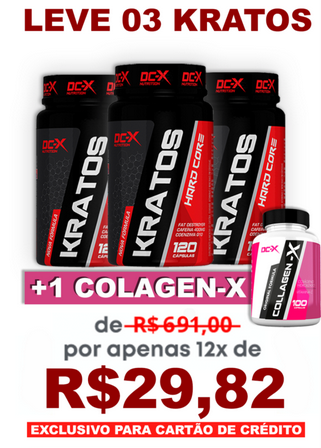
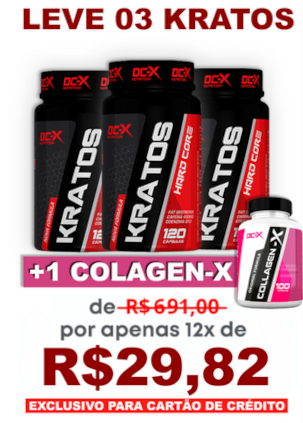
reajustado imgs

diff --git a/index.html b/index.html
@@ -90,7 +90,77 @@
       <h3 class="text-center">celulares e smartphones</h3>
     </section>
     <section id="Emagrecimento">
-      <h3 class="text-center">Emagrecimento</h3>
+      <div class="container">
+        <div class="row">
+        <h3 class="text-center">Emagrecimento</h3>
+        <div class="card text-center" style="width: 18rem;">
+          <img class="card-img-top" src="acessts/img/kratos.png" alt="Card image cap">
+          <div class="card-body">
+            <h5 class="card-title">Queimador de Gorduras Kratos Hardcore</h5>
+            <p class="card-text">1 Pote</p>
+            <a href="https://app.monetizze.com.br/r/ATH19518116?u=c&pl=ZZ102167" class="btn btn-danger">Comprar</a>
+          </div>
+        </div>
+        <div class="card text-center" style="width: 18rem;">
+          <img class="card-img-top" src="acessts/img/kratos3.png" alt="Card image cap">
+          <div class="card-body">
+            <h5 class="card-title">Kratos Hardcore combo 3 potes</h5>
+            <p class="card-text">+1 colageno</p>
+            <p class="card-text">55% de desconto</p>
+            <a href="https://app.monetizze.com.br/r/ATH19518116?u=c&pl=MC105081" class="btn btn-danger">Comprar</a>
+          </div>
+        </div>
+        <div class="card text-center" style="width: 18rem;">
+          <img class="card-img-top" src="acessts/img/kratos5.png" alt="Card image cap">
+          <div class="card-body">
+            <h5 class="card-title">Kratos Hardcore combo 5 potes</h5>
+            <p class="card-text">+2 colageno</p>
+            <p class="card-text">60% de desconto</p>
+            <a href="https://app.monetizze.com.br/r/ATH19518116?u=c&pl=GZ105080" class="btn btn-danger">Comprar</a>
+          </div>
+        </div>
+        <div class="card text-center" style="width: 18rem;">
+          <img class="card-img-top" src="acessts/img/liftdetox1.png" alt="Card image cap">
+          <div class="card-body">
+            <h5 class="card-title">Lift Detox Caps 1 pote</h5>
+            <p class="card-text">45% de desconto</p>
+            <a href="https://app.monetizze.com.br/r/AJF19557298?u=c&pl=UC99175" class="btn btn-danger">Comprar</a>
+          </div>
+        </div>
+        <div class="card text-center" style="width: 18rem;">
+          <img class="card-img-top" src="acessts/img/liftdetox2.png" alt="Card image cap">
+          <div class="card-body">
+            <h5 class="card-title">Lift Detox Caps 2 pote</h5>
+            <p class="card-text">20% de desconto</p>
+            <a href="https://app.monetizze.com.br/r/AJF19557298?u=c&pl=LA105399" class="btn btn-danger">Comprar</a>
+          </div>
+        </div>
+        <div class="card text-center" style="width: 18rem;">
+          <img class="card-img-top" src="acessts/img/liftdetox3.png" alt="Card image cap">
+          <div class="card-body">
+            <h5 class="card-title">Lift Detox Caps 3 pote</h5>
+            <p class="card-text">23% de desconto</p>
+            <a href="https://app.monetizze.com.br/r/AJF19557298?u=c&pl=CY99176" class="btn btn-danger">Comprar</a>
+          </div>
+        </div>
+        <div class="card text-center" style="width: 18rem;">
+          <img class="card-img-top" src="acessts/img/liftdetox5.png" alt="Card image cap">
+          <div class="card-body">
+            <h5 class="card-title">Lift Detox Caps 5 pote</h5>
+            <p class="card-text">30% de desconto</p>
+            <a href="https://app.monetizze.com.br/r/AJF19557298?u=c&pl=AL99177" class="btn btn-danger">Comprar</a>
+          </div>
+        </div>
+        <div class="card text-center" style="width: 18rem;">
+          <img class="card-img-top" src="acessts/img/liftdetoxpromo.png" alt="Card image cap">
+          <div class="card-body">
+            <h5 class="card-title">MEGA PROMOÇÃO LIFT DETOX</h5>
+            <p class="card-text">APROVEITE NOSSA PROMOÇÃO DE VERÃO E GARANTA1 POTE GRÁTIS NAS COMPRAS ACIMA DE 2 POTES</p>
+            <a href="https://app.monetizze.com.br/r/AJF19557298/?u=PB65873" class="btn btn-danger">Comprar</a>
+          </div>
+        </div>
+      </div>
+    </div>
     </section>
     <section id="adulto">
       <div class="container">
@@ -99,25 +169,25 @@
       <div class="card text-center" style="width: 18rem;">
         <img class="card-img-top" src="acessts/img/paucavalo1.png" alt="Card image cap">
         <div class="card-body">
-          <h5 class="card-title">Card title</h5>
-          <p class="card-text">Some quick example text to build on the card title and make up the bulk of the card's content.</p>
-          <a href="#" class="btn btn-danger">Go somewhere</a>
+          <h5 class="card-title">Pau de Cavalo GEL</h5>
+          <p class="card-text">1 Pote</p>
+          <a href="#" class="btn btn-danger">Comprar</a>
         </div>
       </div>
       <div class="card text-center" style="width: 18rem;">
         <img class="card-img-top" src="acessts/img/paudecavalo3.png" alt="Card image cap">
         <div class="card-body">
-          <h5 class="card-title">Card title</h5>
-          <p class="card-text">Some quick example text to build on the card title and make up the bulk of the card's content.</p>
-          <a href="#" class="btn btn-danger">Go somewhere</a>
+          <h5 class="card-title">Pau de Cavalo GEL 3 Potes</h5>
+          <p class="card-text">+2 potes de brinde</p>
+          <a href="#" class="btn btn-danger">Comprar</a>
         </div>
       </div>
       <div class="card text-center" style="width: 18rem;">
         <img class="card-img-top" src="acessts/img/paudecavalo5.png" alt="Card image cap">
         <div class="card-body">
-          <h5 class="card-title">Card title</h5>
-          <p class="card-text">Some quick example text to build on the card title and make up the bulk of the card's content.</p>
-          <a href="#" class="btn btn-danger">Go somewhere</a>
+          <h5 class="card-title">Pau de Cavalo GEL 5 Potes</h5>
+          <p class="card-text">+5 Potes de brinde</p>
+          <a href="#" class="btn btn-danger">Comprar</a>
         </div>
       </div>
     </div>

diff --git a/style/main.css b/style/main.css
@@ -108,6 +108,10 @@ header nav a {
 }
 
 
+div .row{
+    justify-content: center;
+}
+
 
 div .card{
     padding: 5px;
